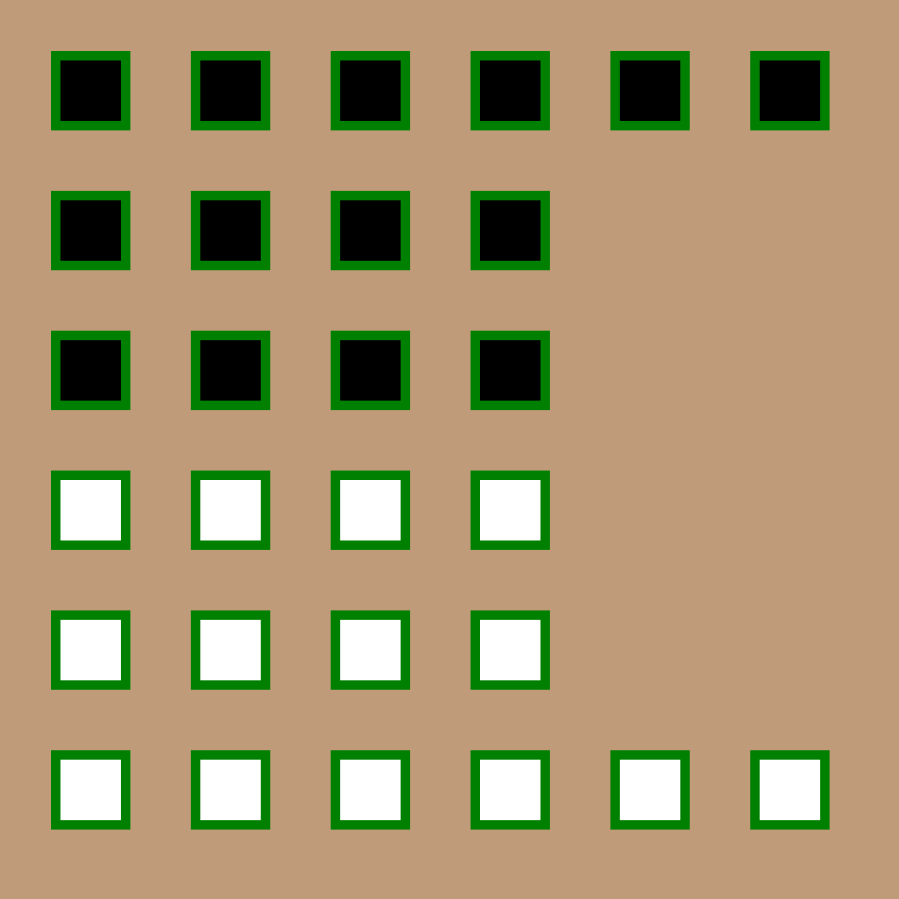
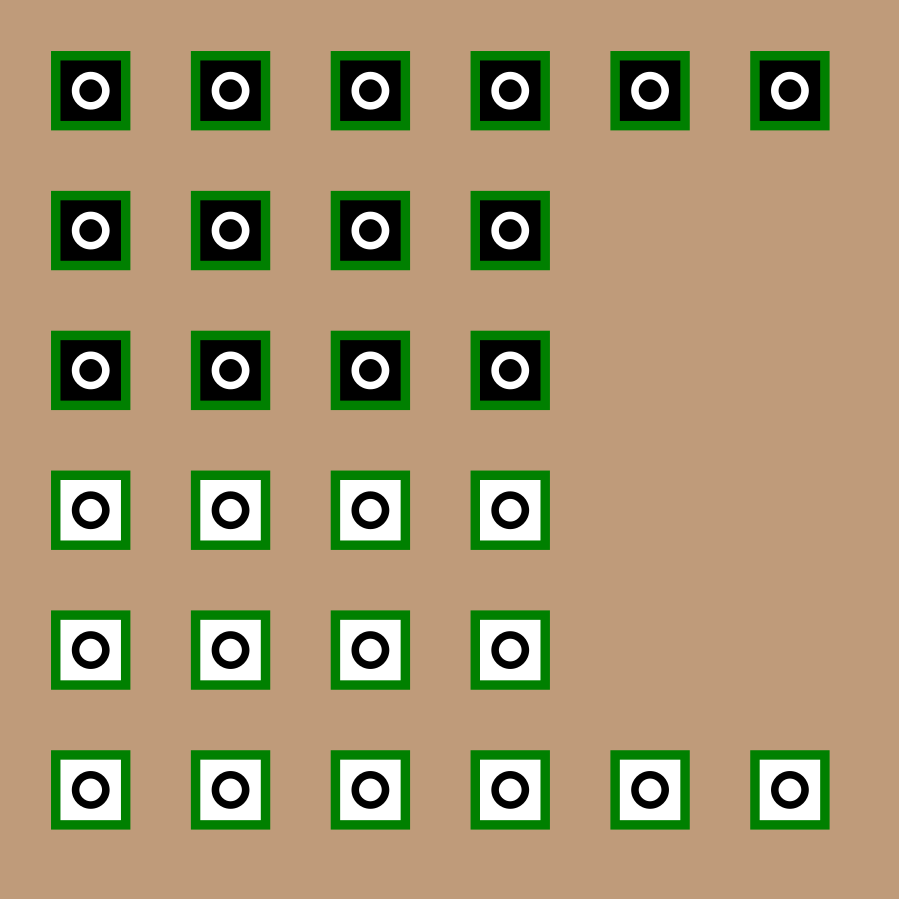
First step in drawing cube decorations

diff --git a/pijersi_svg/pijersi_svg.py b/pijersi_svg/pijersi_svg.py
@@ -193,7 +193,9 @@ class CubeConfig:
     cube_margin: float = None
     cube_shift: float = None
     cube_line_width: float = None
-    cube_decoration_width: float = None
+    
+    decoration_line_width: float = None
+    decoration_side: float = None
 
 
 @dataclass
@@ -305,7 +307,9 @@ def make_cube_config():
     cube_margin_cm = 0.5
     cube_shift_cm = cube_side_cm
     cube_line_width_cm = 0.1/4
-    cube_decoration_width_cm = 0.1
+    
+    decoration_line_width_cm = 0.2
+    decoration_side_cm = 0.5*cube_side_cm
 
     support_width_cm = col_count * \
         (cube_shift_cm + cube_margin_cm + cube_side_cm) + cube_shift_cm
@@ -318,11 +322,18 @@ def make_cube_config():
     support_height = support_width*(support_height_cm/support_width_cm)
 
     cube_side = support_width*(cube_side_cm/support_width_cm)
+    
     cube_margin = support_width*(cube_margin_cm/support_width_cm)
+    
     cube_shift = support_width*(cube_shift_cm/support_width_cm)
+    
     cube_line_width = support_width*(cube_line_width_cm/support_width_cm)
-    cube_decoration_width = support_width * \
-        (cube_decoration_width_cm/support_width_cm)
+    
+    decoration_line_width = support_width * \
+        (decoration_line_width_cm/support_width_cm)
+    
+    decoration_side = support_width * \
+        (decoration_side_cm/support_width_cm)
 
     # colors
     support_color = '#BF9B7A'
@@ -345,7 +356,9 @@ def make_cube_config():
                              cube_margin=cube_margin,
                              cube_shift=cube_shift,
                              cube_line_width=cube_line_width,
-                             cube_decoration_width=cube_decoration_width)
+                             
+                             decoration_line_width=decoration_line_width,
+                             decoration_side=decoration_side)
 
     print()
     print(f"make_cube_config: cube_side_cm = {cube_side_cm:.2f} ")
@@ -926,7 +939,18 @@ def draw_cube(support, abstract_cube, cube_x, cube_y):
                           width=CUBE_CONFIG.cube_side,
                           height=CUBE_CONFIG.cube_side,
                           fill='black' if abstract_cube.color == CubeColor.BLACK else 'white')
+    
+    center_x = cube_x + CUBE_CONFIG.cube_side/2
+    center_y = cube_y + CUBE_CONFIG.cube_side/2
+    
+    circle = draw.Circle(cx=center_x, cy=center_y, r=CUBE_CONFIG.decoration_side/2, 
+                         fill=None,
+                         fill_opacity=0,
+                         stroke='white' if abstract_cube.color == CubeColor.BLACK else 'black',
+                         stroke_width=CUBE_CONFIG.decoration_line_width,                         )
+    
     support.append(cube)
+    support.append(circle)
 
 
 def main():
